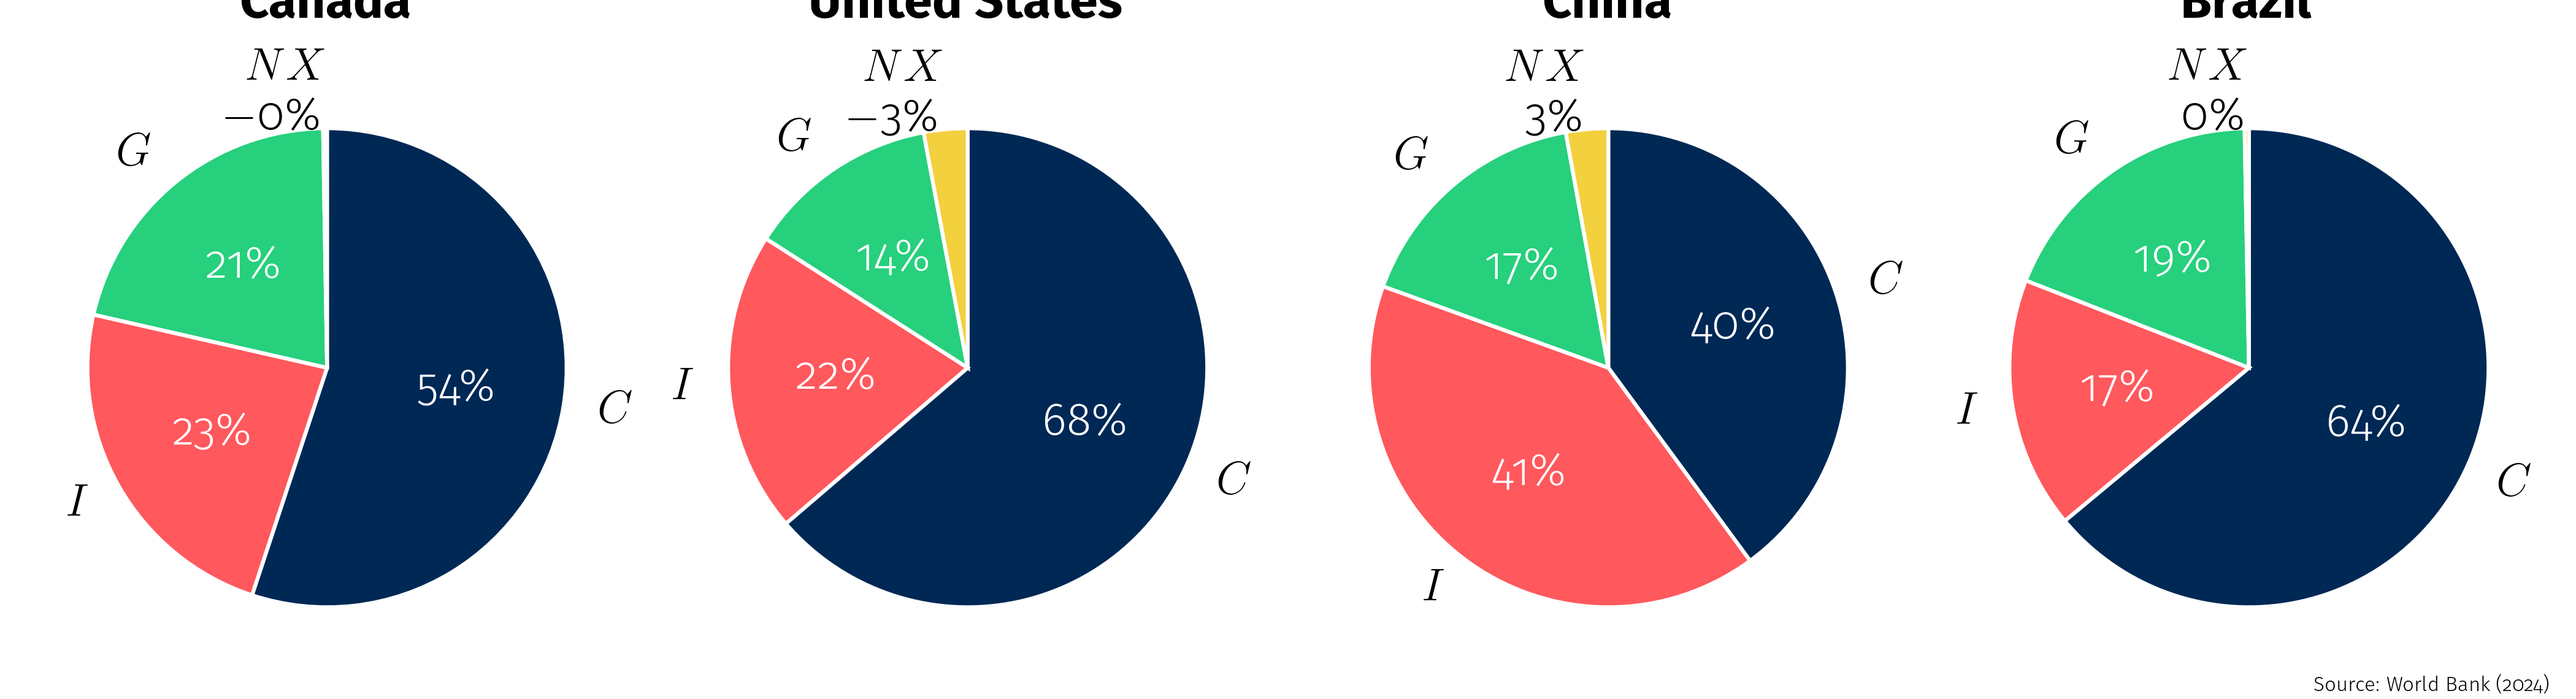
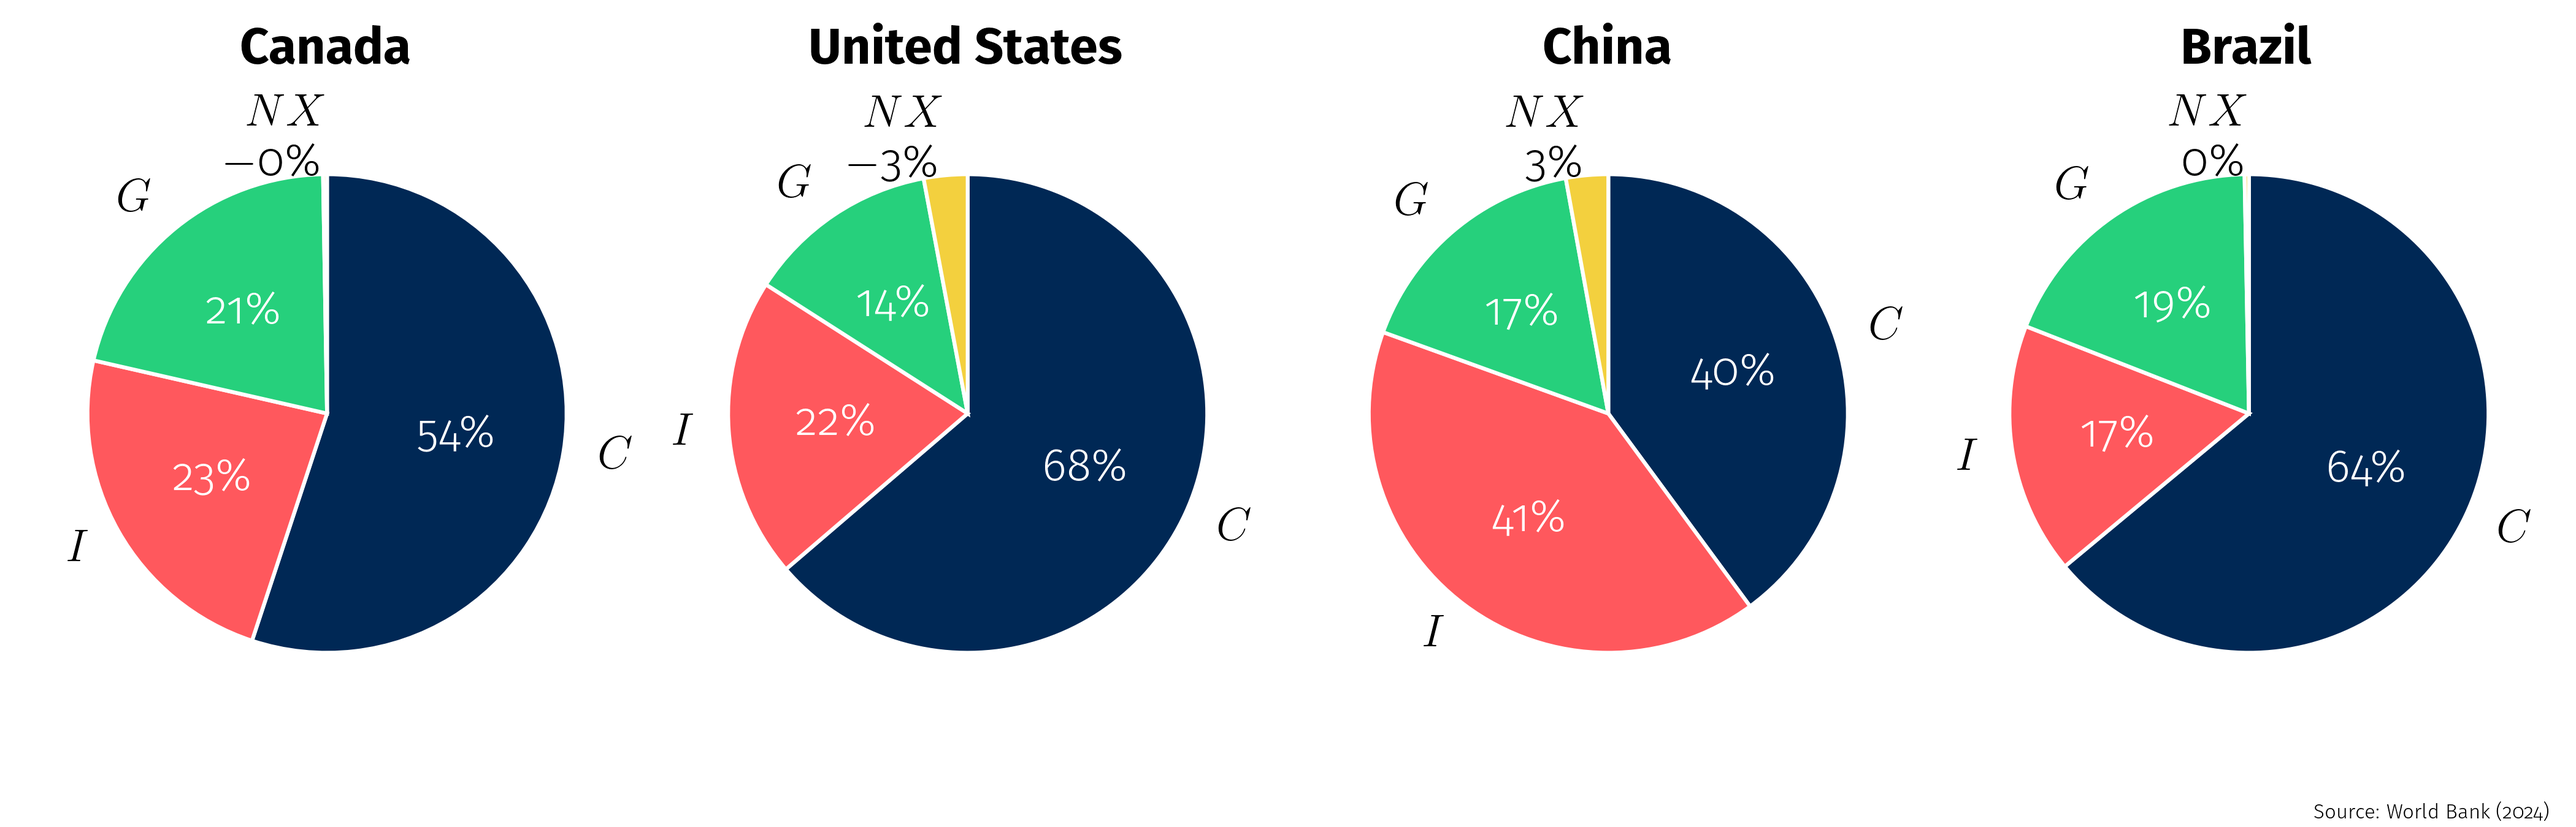
Fix truncated country names in 4-country GDP decomposition pie chart
Increase figure height and add top padding so titles are not clipped.

diff --git a/Slides/S1/figures_s1.py b/Slides/S1/figures_s1.py
@@ -750,8 +750,9 @@ def gdp_decomposition_4countries():
                     break
 
     colors = [palette[0], palette[2], palette[1], palette[3]]  # C, I, G, NX
-    fig, axes = plt.subplots(1, 4, figsize=(14, 3.8))
+    fig, axes = plt.subplots(1, 4, figsize=(14, 4.5))
     fig.patch.set_alpha(0.0)
+    fig.subplots_adjust(top=0.85)
 
     for ax, (name, comps) in zip(axes, data.items()):
         ax.patch.set_alpha(0.0)
